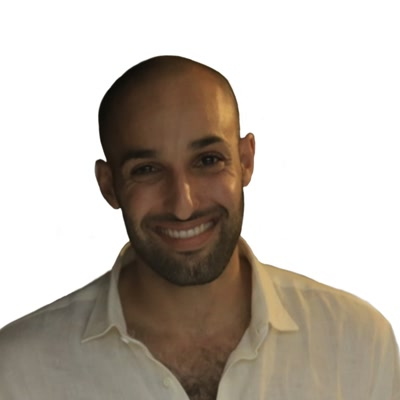
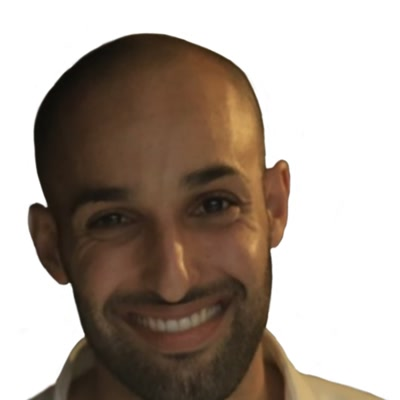
Fix founder photos: matching face size, gray background for both
- Re-crop both photos with similar face proportions
- Add gray bg to photo container so Dekel's white bg matches Evyatar's gray

diff --git a/components/n5/N5Team.tsx b/components/n5/N5Team.tsx
@@ -62,7 +62,7 @@ export default function N5Team() {
               animate={inView ? { opacity: 1, y: 0 } : {}}
               transition={{ duration: 0.65, delay: 0.2 + i * 0.15, ease: [0.22, 1, 0.36, 1] }}
               className="flex flex-col items-center text-center gap-5">
-              <div className="relative w-36 h-36 md:w-44 md:h-44 rounded-full overflow-hidden border-2 border-[#F5A624]/30"
+              <div className="relative w-36 h-36 md:w-44 md:h-44 rounded-full overflow-hidden border-2 border-[#F5A624]/30 bg-[#8a8a8a]"
                 style={{ boxShadow: '0 0 40px rgba(245,166,36,0.15)' }}>
                 {person.image ? (
                   <Image src={person.image} alt={person.name} fill className="object-cover" />
